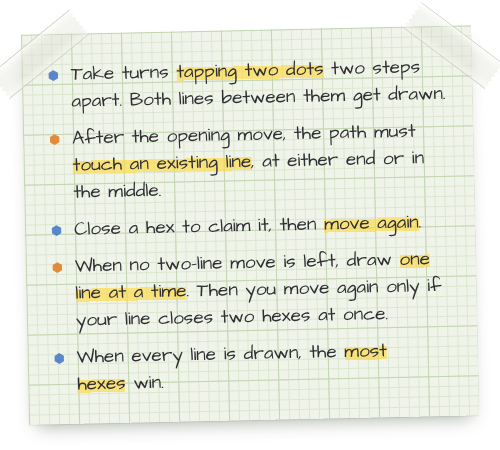
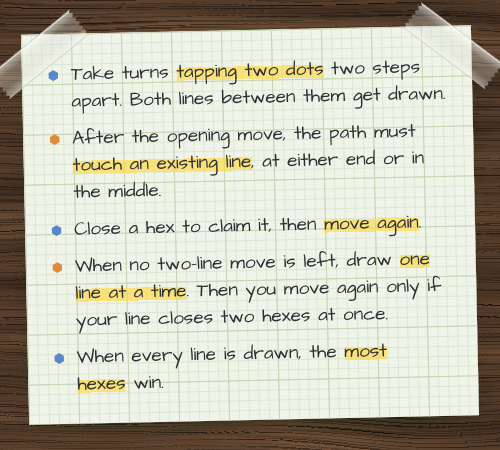
itch.io art: the taped rules on the walnut desk
The taped rules sheet now sits on the game's walnut desk instead of a
transparent background: the same #wood filter as src/Defs.svelte (added
to board.js's defs), over --desk, as in src/routes/+page.svelte.

Claude-Session: https://claude.ai/code/session_01HBxUBzsLmmLyjGt7Pc5a1a

Changed region(s): [[0.0, 0.0, 1.0, 1.0]]

diff --git a/itch/board.js b/itch/board.js
@@ -13,13 +13,30 @@ const add = (parent, tag, attrs = {}) => {
 	return el;
 };
 
-// the pixel-sized defs of src/Defs.svelte that the title's underline and the grain use
+// the pixel-sized defs of src/Defs.svelte that the pages use: the pencil and grain filters, the walnut desk,
+// the title's underline
 export const addDefs = () => {
 	const svg = add(document.body, 'svg', { width: 0, height: 0, style: 'position:absolute' });
 	svg.innerHTML = `<defs>
 		<filter id="pencil" x="-10%" y="-10%" width="120%" height="120%">
 			<feTurbulence type="fractalNoise" baseFrequency="0.9" numOctaves="2" seed="9" result="n" />
 			<feDisplacementMap in="SourceGraphic" in2="n" scale="2.2" xChannelSelector="R" yChannelSelector="G" />
+		</filter>
+		<!-- The walnut desk: noise stretched along x into broad streaks, tinted brown, fine dark
+		     grain over it, and the whole bent by slow waves so the grain curves like real wood. -->
+		<filter id="wood" x="-5%" y="-5%" width="110%" height="110%" color-interpolation-filters="sRGB">
+			<feTurbulence type="fractalNoise" baseFrequency="0.002 0.03" numOctaves="4" seed="3" result="broad" />
+			<feColorMatrix
+				in="broad"
+				type="matrix"
+				values="0.35 0 0 0 0.155  0.25 0 0 0 0.1125  0.17 0 0 0 0.0825  0 0 0 0 1"
+				result="tone"
+			/>
+			<feTurbulence type="fractalNoise" baseFrequency="0.004 0.9" numOctaves="2" seed="8" result="fine" />
+			<feColorMatrix in="fine" type="matrix" values="0 0 0 0 0.1  0 0 0 0 0.065  0 0 0 0 0.04  -3 0 0 0 1.55" result="lines" />
+			<feComposite in="lines" in2="tone" operator="over" result="flat" />
+			<feTurbulence type="fractalNoise" baseFrequency="0.0025 0.006" numOctaves="2" seed="11" result="warp" />
+			<feDisplacementMap in="flat" in2="warp" scale="45" xChannelSelector="R" yChannelSelector="G" />
 		</filter>
 		<filter id="grain">
 			<feTurbulence type="fractalNoise" baseFrequency="0.75" numOctaves="3" stitchTiles="stitch" />

diff --git a/itch/rules.html b/itch/rules.html
@@ -6,7 +6,7 @@
 		<!-- The home page's rules, for the itch.io description: styled as in src/Home.svelte, on the graph pad.
 	     render.sh renders it at the size of .canvas (450×390).
 	     #taped: the same sheet, a little askew, stuck down with two strips of clear tape across its top corners,
-	     on a transparent background (rendered at 500×450), so it sits on whatever color the itch page has -->
+	     on the game's walnut desk (rendered at 500×450) -->
 		<link rel="stylesheet" href="common.css" />
 		<style>
 			.canvas {
@@ -40,9 +40,17 @@
 			body.taped {
 				width: 500px;
 				height: 450px;
-				background: transparent;
+				background: var(--desk);
 				display: grid;
 				place-content: center;
+			}
+
+			/* the walnut desk, as in src/routes/+page.svelte */
+			.desk {
+				position: absolute;
+				inset: 0;
+				width: 100%;
+				height: 100%;
 			}
 
 			.taped .canvas {
@@ -107,6 +115,7 @@
 
 			if (location.hash === '#taped') {
 				document.body.classList.add('taped');
+				document.body.insertAdjacentHTML('afterbegin', '<svg class="desk"><rect width="100%" height="100%" filter="url(#wood)" /></svg>');
 				const canvas = document.querySelector('.canvas');
 
 				// torn ends: small zigzags across each short side

diff --git a/CLAUDE.md b/CLAUDE.md
@@ -60,7 +60,7 @@ message band, prompts, toolbar (back, resign, reset stats, sfx, music).
   `itch` mode into `build-itch/`, without the manifest, install icons and app-install head tags, zipped as
   `build-itch/bitch.zip` to upload.
 - itch.io page art is in `itch/`, as in Patch Through: `Cover.html` (`#cover` 630×500, `#embed` 640×360 with the middle
-  clear for the Run game button, `#embed-preview` with a stand-in button) and `rules.html` (450×390; `#taped`, 500×450 on transparent, the sheet held by clear tape), drawn with the
+  clear for the Run game button, `#embed-preview` with a stand-in button) and `rules.html` (450×390; `#taped`, 500×450, the sheet held by clear tape on the walnut desk), drawn with the
   game's look by `board.js` from a seeded game played with `src/engine.js` (13 hexes, seed 2, 20 moves).
   `sh itch/render.sh` renders the PNGs (headless Edge or Chrome), `node itch/cover-gif.mjs` the GIFs (Chrome and ffmpeg).
 
